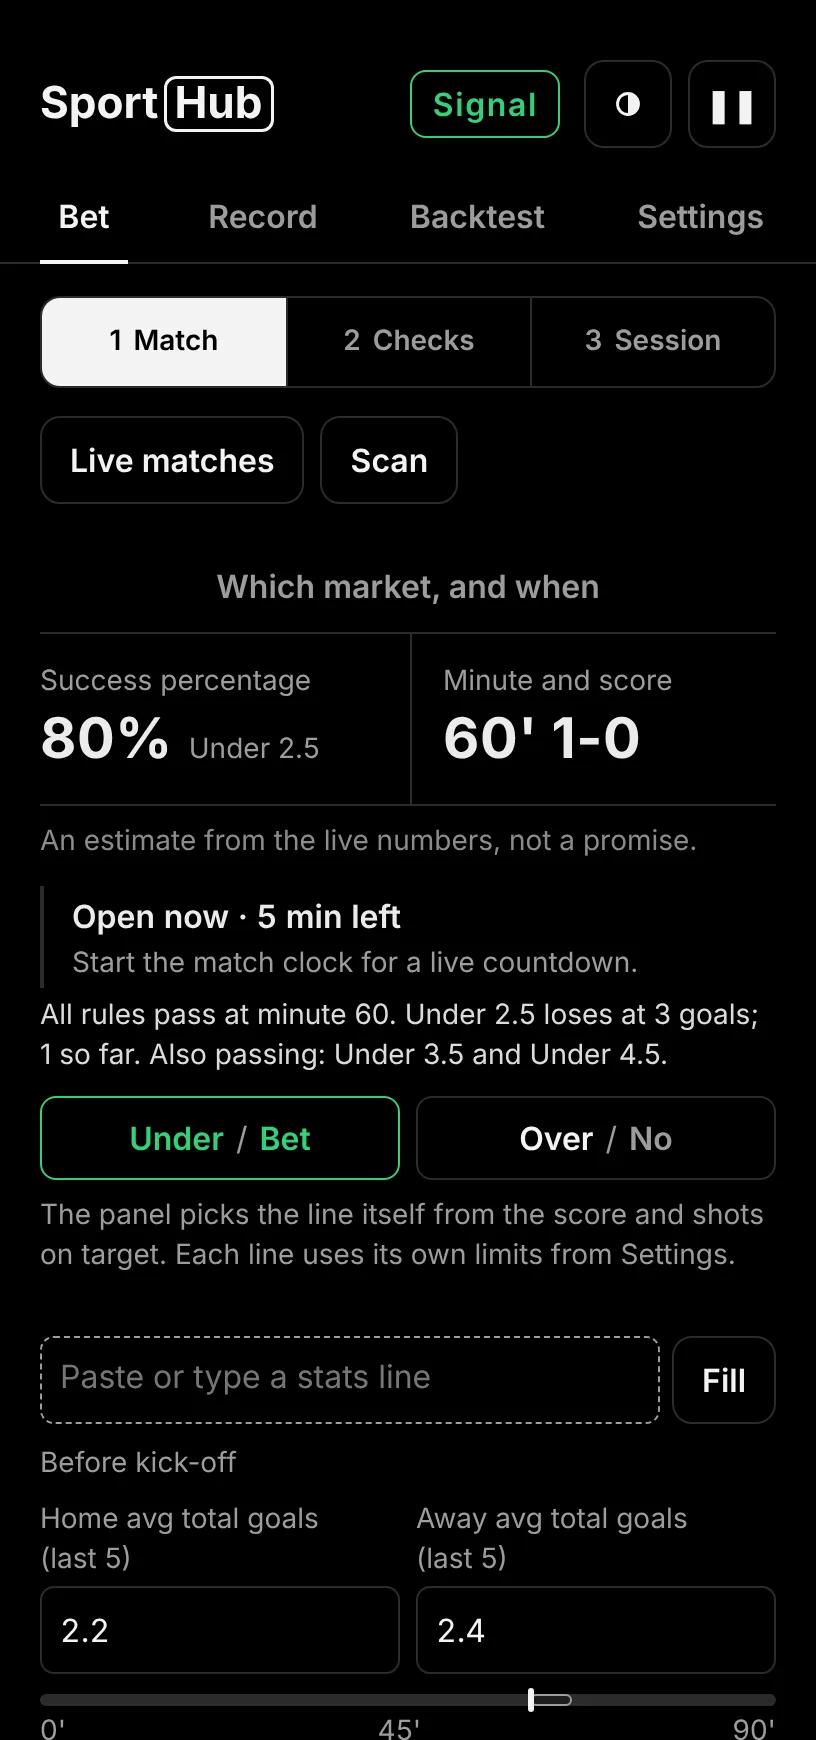
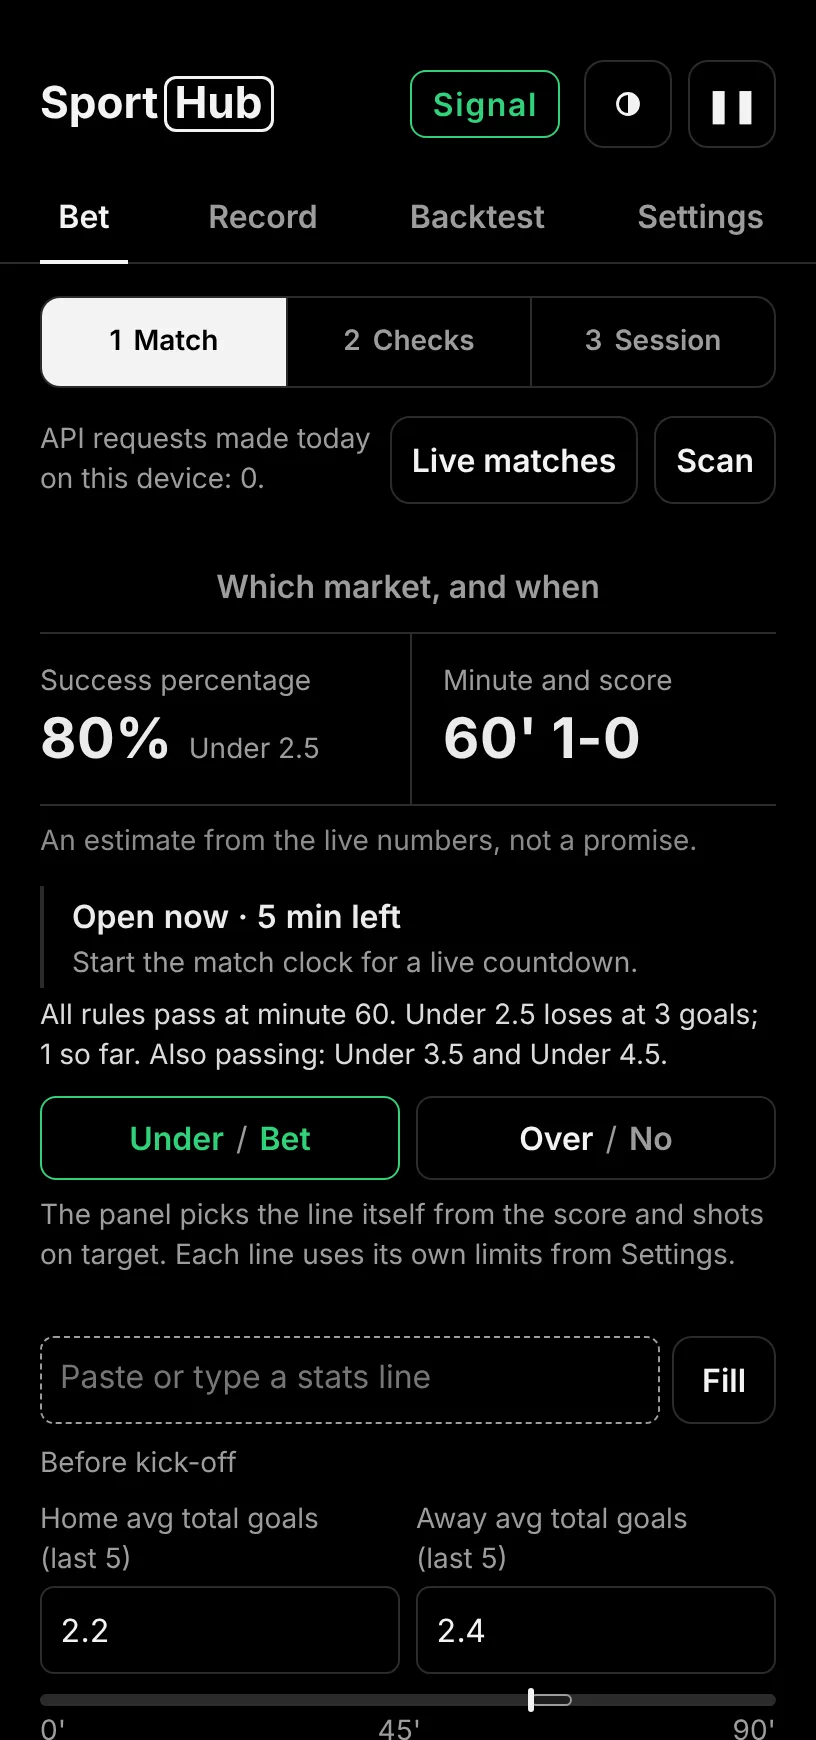
Build 66: API request count in front of the Live matches and Scan buttons
Claude-Session: https://claude.ai/code/session_01K42p2uwRXf4Wwj9iN5MFzn

Changed region(s): [[0.0306, 0.2483, 0.7659, 0.2793], [0.8272, 0.2483, 0.9191, 0.2793]]

diff --git a/panel.html b/panel.html
@@ -860,6 +860,12 @@ body.pg3 .v2[data-cur="3"] [data-pg]:not([data-pg~="3"]){display:none!important}
  /* the Session figures on the right get roomier spacing so the two columns end near each other */
  #fd-stats .grid>div{padding-top:16px;padding-bottom:16px}
 }
+
+/* ===== Build 66: the request count is in front of the Live matches and Scan buttons, up to two lines. Where there is no room for both side by side it sits on its own line above them. ===== */
+.lvrow #apiq{flex:1 1 160px;min-width:0;margin:0;text-align:left}
+.lvrow #apiq.lvl1,.lvrow #apiq.lvl2{flex-basis:100%}
+.lvrow .lvbs{display:flex;flex:none;gap:8px}
+.lvrow .lvbs .lvbtn{padding:0 10px}
 </style>
 </head>
 <body>
@@ -889,8 +895,8 @@ body.pg3 .v2[data-cur="3"] [data-pg]:not([data-pg~="3"]){display:none!important}
    <p class="exnote" id="exnote">Example numbers are loaded. Pick a live match or paste a stats line to replace them, or press Next match to clear.</p>
    <div class="live" id="live">
     <div class="lvrow">
-     <button type="button" class="pgo lvbtn" id="lvopen" data-a="lvopen">Live matches</button>
-     <button type="button" class="pgo lvbtn" id="lvscan" data-a="lvscan">Scan</button>
+     <p class="pace apiq" id="apiq" role="status"></p>
+     <span class="lvbs"><button type="button" class="pgo lvbtn" id="lvopen" data-a="lvopen">Live matches</button><button type="button" class="pgo lvbtn" id="lvscan" data-a="lvscan">Scan</button></span>
      <button type="button" class="pu" id="lvrefresh" data-a="lvrefresh" hidden>Refresh</button>
      <button type="button" class="pu" id="lvunlink" data-a="lvunlink" hidden>Unlink</button>
      <label class="lvauto" id="lvautow" hidden><input type="checkbox" id="lvauto">Auto every <span id="lvautot">30</span> s</label>
@@ -898,7 +904,6 @@ body.pg3 .v2[data-cur="3"] [data-pg]:not([data-pg~="3"]){display:none!important}
     <p class="lvstat" id="lvstat" role="status" hidden></p>
     <p class="lk" id="lk" hidden><span>Check this match on</span><a id="lk_sofa" target="_blank" rel="noopener noreferrer">Sofascore</a> <a id="lk_fs" target="_blank" rel="noopener noreferrer">FootyStats</a><a id="lk_bm" target="_blank" rel="noopener noreferrer">BetMines</a><small>Opens a web search for the match name below.</small></p>
     <p class="pres" id="lvmsg" role="status" hidden></p>
-    <p class="pace apiq" id="apiq" role="status" hidden></p>
     <div id="scres" hidden>
      <div id="scrows"></div>
      <p class="pace" id="scsunk" role="status" hidden></p>
@@ -1153,7 +1158,7 @@ body.pg3 .v2[data-cur="3"] [data-pg]:not([data-pg~="3"]){display:none!important}
  </section>
  <div class="pgnav" id="pgnav" hidden><button type="button" data-go="back">Back</button><button type="button" data-go="next">Next</button></div>
  <p class="pgsr" id="pgsr" role="status" aria-live="polite"></p>
- <footer>Numbers come from a pasted stats line, or are pulled from your own API-Sports key if you add one. Not connected to a bookmaker. No bet is guaranteed.<span class="bld"><span id="buildno">Build 65 · 7 Nov 2026</span> <a id="aboutlk" class="abl" href="./?about">About SportHub</a> <button type="button" class="pu" id="reloadnew" data-a="reload">Reload latest</button></span></footer>
+ <footer>Numbers come from a pasted stats line, or are pulled from your own API-Sports key if you add one. Not connected to a bookmaker. No bet is guaranteed.<span class="bld"><span id="buildno">Build 66 · 7 Nov 2026</span> <a id="aboutlk" class="abl" href="./?about">About SportHub</a> <button type="button" class="pu" id="reloadnew" data-a="reload">Reload latest</button></span></footer>
 </main>
 
 <script>
@@ -3271,9 +3276,8 @@ function apiQLevel(){
 function apiQSet(lim,used){apiQ.d=dayKey();apiQ.lim=lim;apiQ.rem=Math.max(0,lim-used);apiQ.est=false;apiQ.at=Date.now();try{localStorage.setItem(APIQK,JSON.stringify(apiQ))}catch(e){}apiQShow()}
 function apiQText(){
  const f=x=>Number(x).toLocaleString('en-US'),lv=apiQLevel();
- if(apiQ.rem!=null)return 'API requests left today: '+(apiQ.est?'about ':'')+f(apiQ.rem)+(apiQ.lim?' of '+f(apiQ.lim):'')+'.'+(lv===2?' Almost out, so auto-refresh is slowed down.':lv===1?' Running low.':'');
- if(apiQ.n)return 'API requests made today on this '+pnDev()+': '+f(apiQ.n)+'.';
- return '';
+ if(apiQ.rem!=null&&apiQ.d===dayKey())return 'API requests left today: '+(apiQ.est?'about ':'')+f(apiQ.rem)+(apiQ.lim?' of '+f(apiQ.lim):'')+'.'+(lv===2?' Almost out, so auto-refresh is slowed down.':lv===1?' Running low.':'');
+ return 'API requests made today on this device: '+f(apiQ.d===dayKey()?apiQ.n:0)+'.';
 }
 function apiQShow(){
  const t=apiQText(),lv=apiQLevel();

diff --git a/index.html b/index.html
@@ -264,7 +264,7 @@ h1,h2,h3,.wm,.wm *{font-weight:700 !important}
    <div class="phone">
     <picture>
      <source srcset="img/phone-bet-light.webp" media="(prefers-color-scheme: light)">
-     <img src="img/phone-bet-dark.webp" width="816" height="1740" alt="The Match page of the Bet tab at minute 60 with the score 1-0. Under the Live matches and Scan buttons the card shows the Success percentage for this live match next to the minute and score, and a window that is open with 5 minutes left. Two small chips read Under / Bet and Over / No. A page strip under the tabs shows Match, Checks and Session." fetchpriority="high">
+     <img src="img/phone-bet-dark.webp" width="816" height="1740" alt="The Match page of the Bet tab at minute 60 with the score 1-0. A line in front of the Live matches and Scan buttons counts the API requests made today on this device. Under those buttons the card shows the Success percentage for this live match next to the minute and score, and a window that is open with 5 minutes left. Two small chips read Under / Bet and Over / No. A page strip under the tabs shows Match, Checks and Session." fetchpriority="high">
     </picture>
    </div>
   </div>
